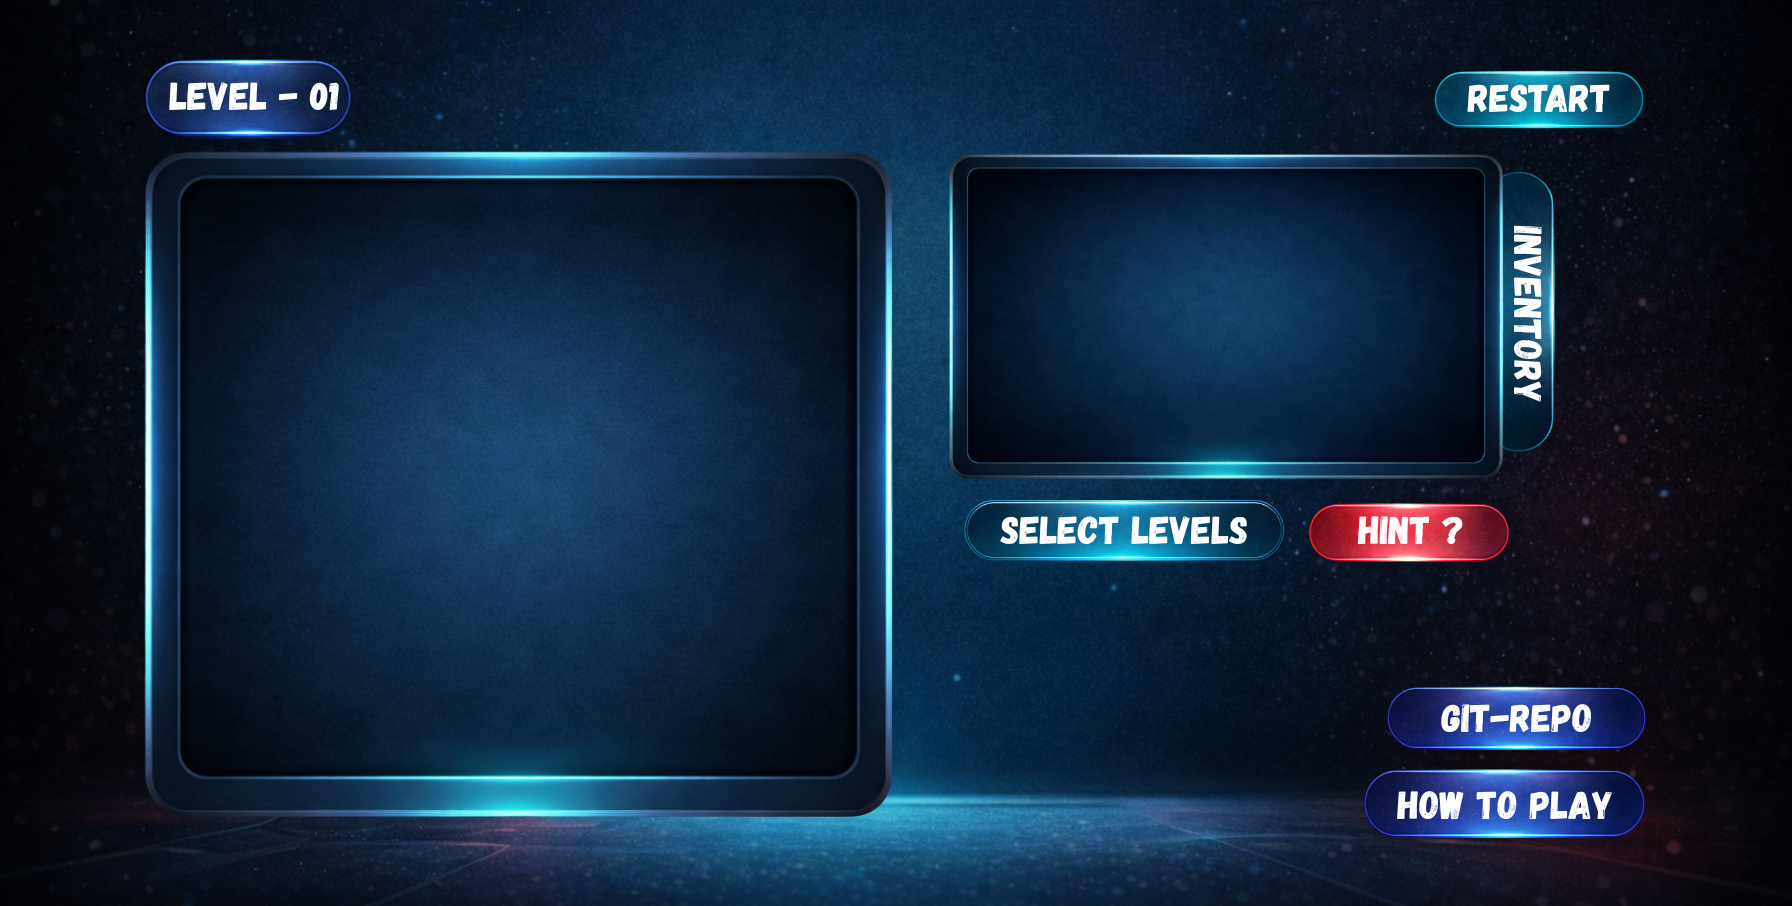
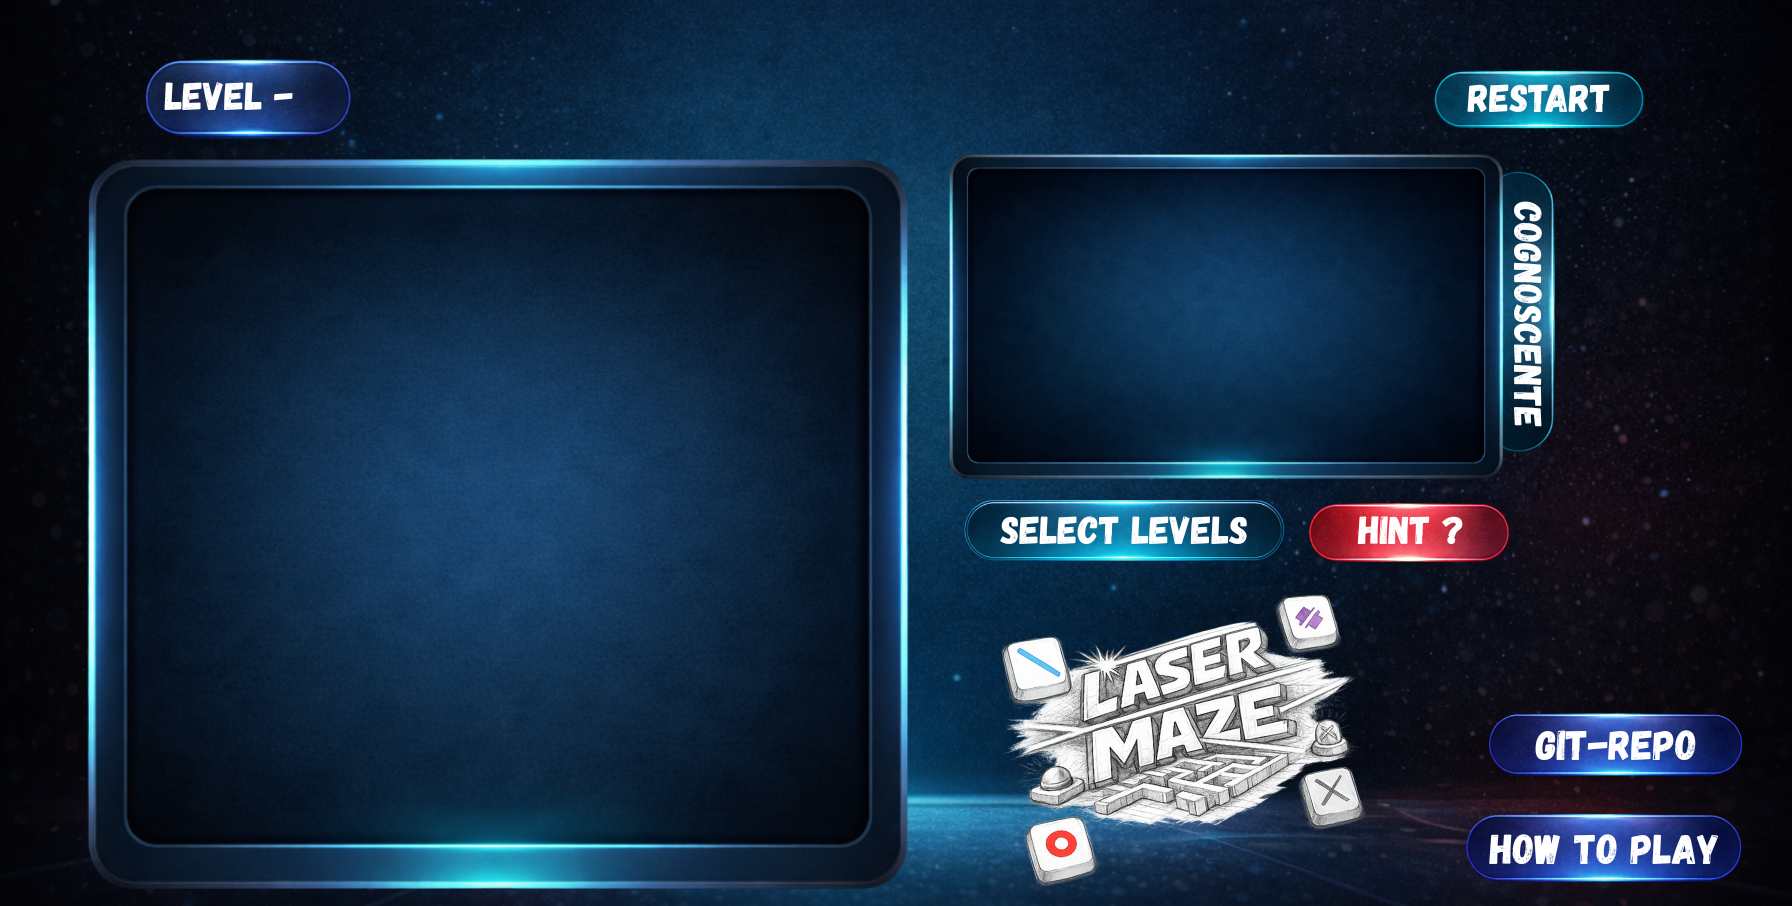
added a newUI png for the whole ui aligned them using invisible button using html and reduced the color of the game screen to make it look more real on the bg also removed pre written num  01 and replaced it with the correct game level counter.

diff --git a/style.css b/style.css
@@ -41,9 +41,49 @@ body {
     background-image: url('newUI.png');
     background-size: 100% 100%;
     background-position: center;
-    background-position: no-repeat;
+    background-repeat: no-repeat;
 }
 
+.click-zone {
+    position: absolute;
+    background: transparent;
+    border: none;
+    cursor: pointer;
+    z-index: 20;
+}
+
+.zone-level{
+    position: absolute;
+    top: 7.6%;
+    left: 15%;
+    width: 6%;
+    height: 5.5%;
+    display: flex;
+    align-items: center;
+    justify-content: center;
+    font-size: 2.2vw;
+    text-shadow: 0 0 15px var(--glow-blue);
+    pointer-events: none;
+    color: white;
+}
+
+.zone-restart{
+    top: 6.6%;
+    right: 4.5%;
+    width: 10.6%;
+    height: 5.5%;
+    border-radius: 30px;
+}
+
+.zone-game{
+    position: absolute;
+    top: 17.7%;
+    left: 4.5%;
+    width: 46.5%;
+    height: 79.6%;
+    padding: 1.5%;
+}
+/* 
 .slot-btn{
     position: absolute;
     background: transparent;
@@ -98,7 +138,7 @@ body {
     width: 46.5%;
     height: 79.6%;
     padding: 1.5%;
-}
+} */
 
 .game-container {
     width: 100%;
@@ -114,7 +154,73 @@ canvas {
     display: block;
 }
 
-.slot-inventory{
+.zone-inventory {
+    position: absolute;
+    top: 17.7%;
+    left: 53.7%;
+    width: 30.8%;
+    height: 36.5%;
+    display: flex;
+    justify-content: center;
+    align-items: center;
+    pointer-events: none;
+}
+
+#console-screen {
+    font-family: 'Courier New', Courier, monospace;
+    font-weight: bold;
+    font-size: 2vw;
+    color: #a6f0ff;
+    text-shadow: 0 0 10px #00d3ff, 0 0 20px #00d2ff;
+    text-align: center;
+    width: 80%;
+    text-transform: uppercase;
+    animation: pulseText 3s infinite alternate;
+}
+
+@keyframes pulseText {
+    0% {
+        opacity: 0.8;
+    }
+    100%{
+        opacity: 1;
+        text-shadow: 0 0 15px #00d2ff, 0 0 30px #00d2ff;
+    }
+}
+
+.zone-select{
+    top: 57%;
+    left: 53.7%;
+    width: 17.9%;
+    height: 6.6%;
+    border-radius: 20px;
+}
+
+.zone-hint {
+    top: 57%;
+    left: 73.9%;
+    width: 10.6%;
+    height: 6.6%;
+    border-radius: 20px;
+}
+
+.zone-git{
+    top: 79.3%;
+    right: 2.8%;
+    width: 14.5%;
+    height: 5.5%;
+    border-radius: 20px;
+}
+
+.zone-help {
+    bottom: 3.3%;
+    right: 2.8%;
+    width: 14.5%;
+    height: 5.5%;
+    border-radius: 20px;
+}
+
+/* .slot-inventory{
     position: absolute;
     top: 17.7%;
     left: 53.7%;
@@ -126,8 +232,8 @@ canvas {
     padding: 20px;
     text-align: center;
     color: rgba(255,255,255,0.4);
-}
-
+} */
+/* 
 .inv-text h3 {
     font-size: 2vw;
     color: var(--glow-blue);
@@ -180,8 +286,10 @@ canvas {
     width: 14.5%;
     height: 5.5%;
     font-size: 1.3vw;
+} */
+.hidden{
+    display: none !important;
 }
-
 .modal-overlay {
     position: fixed;
     top: 0;
@@ -265,10 +373,6 @@ canvas {
     margin-top: 10px;
 }
 
-.hidden{
-    display: none !important;
-}
-
 #game-message{
     position: absolute;
     top: 50%;
@@ -290,10 +394,6 @@ canvas {
     font-size: 1.2rem;
     margin-bottom: 20px;
     color: #ffd1d1;
-}
-
-.hidden {
-    display: none !important;
 }
 
 @media (max-width: 1024px){

diff --git a/game.js b/game.js
@@ -8,6 +8,19 @@ const messageBox = document.getElementById('game-message');
 const modal = document.getElementById('level-modal');
 const levelGrid = document.getElementById('level-grid');
 const btnClose = document.getElementById('btn-close-modal');
+const consoleScreen = document.getElementById('console-screen');
+
+//random messages
+const consoleMessage = [
+    "WELL DONE!",
+    "GOOD PLACEMENT",
+    "OPTIMIZING...",
+    "PATH ALIGNED",
+    "NICE MOVE",
+    "CALCULATING...",
+    "LASER STABLE",
+    "EXCELLENT!"
+];
 
 const BASE_TILE_SIZE = 70;
 let TILE_SIZE = 70;
@@ -17,10 +30,10 @@ let gridOffsetX = 0;
 let gridOffsetY = 0;
 
 const COLORS = {
-    bgGradientStart: '#1a5068',
-    bgGradientEnd: '#0f2b38',
-    gridBorder: '#000000',
-    gridFill: '#134B5F',
+    bgGradientStart: '#05101a',
+    bgGradientEnd: '#000000',
+    gridBorder: 'rgba(0, 210, 255, 0.1)',
+    gridFill: 'rgba(10, 20, 30, 0.8)',
     gridHighlight: 'rgba(255,255,255,0.2)',
     blockTop: '#ecf0f1',
     blockSide: '#bdc3c7',
@@ -305,7 +318,7 @@ function getVisualCoords(l){
         else if(l.dir === DIR.LEFT) x2 -= dist;
     }
     if(l.hitObj && l.hitObj.type === TYPE.WALL){
-        let dist = TILE_SIZE / 3;
+        let dist = TILE_SIZE * 0.38;
         if(l.dir === DIR.UP) y2 += dist;
         else if(l.dir === DIR.RIGHT) x2 -= dist;
         else if(l.dir === DIR.DOWN) y2 -= dist;
@@ -577,6 +590,11 @@ function roundRect(ctx, x, y, width, height, radius, fill) {
     if(fill) ctx.fill();
 }
 
+function updateConsole(){
+    const randomMsg = consoleMessage[Math.floor(Math.random() * consoleMessage.length)];
+    consoleScreen.innerText = randomMsg;
+}
+
 //Input
 function getGridPos(e){
     const rect = canvas.getBoundingClientRect();
@@ -621,7 +639,19 @@ canvas.addEventListener('mouseup', (e) => {
         dragObj = null;
         calculateLaser();
     }
+    if(isValidMove(dropX, dropY)){
+        if(dragObj.x !== dropX || dragObj.y !== dropY){
+            dragObj.x = dropY;
+            dragObj.y = dropY;
+
+            placeSound.currentTime = 0;
+            placeSound.play().catch(e => console.log("Audio play failed:", e))
+
+            updateConsole();
+        }
+    }
 });
+
 function isValidMove(x, y){
     if(y < 0 || y >= levelMap.length || x < 0 || x >= levelMap[0].length) return false;
     if(levelMap[y][x] !== 1) return false;

diff --git a/index.html b/index.html
@@ -7,36 +7,31 @@
     <title>LASER MAZE - All new Experience.</title>
     <link rel="stylesheet" href="style.css">
 </head>
-
 <body>
     <div class="ui-wrapper">
 
-        <div class="slot-level">
-            LEVEL - <span id="level-indicator">01</span>
+        <div class="zone-level">
+            <span id="level-indicator">01</span>
         </div>
 
-        <button class="slot-btn slot-restart" id="btn-restart">RESTART</button>
+        <button class="click-zone zone-restart" id="btn-restart" title="Restart Level"></button>
 
-        <div class="slot-game">
+        <div class="zone-game">
             <div class="game-container">
                 <canvas id="gameCanvas"></canvas>
                 <div id="game-message" class="hidden">LEVEL COMPLETE!</div>
             </div>
         </div>
 
-        <div class="slot-inventory">
-            <div class="inv-text">
-                <h3>INVENTORY</h3>
-                <p>Drag mirror from the bottom of the grid.</p>
-            </div>
+        <div class="zone-inventory">
+            <div id="console-screen">SYSTEM READY...</div>
         </div>
 
-        <div class="slot-inv-label">INVENTORY</div>
+        <button class="click-zone zone-select" id="btn-select-level" title="Select Level"></button>
 
-        <button class="slot-btn slot-select" id="btn-select-level">SELECT LEVEL</button>
-        <button class="slot-btn slot-hint" id="btn-hint">HINT ?</button>
-        <button class="slot-btn slot-git" onclick="window.open('https://github.com/baishnabikumari/Laser-Maze', '_blank')">GIT-REPO</button>
-        <button class="slot-btn slot-help" id="btn-how-to">HOW TO PLAY</button>
+        <button class="click-zone zone-hint" id="btn-hint" title="Get Hint"></button>
+        <button class="click-zone zone-git" onclick="window.open('https://github.com/baishnabikumari/Laser-Maze', '_blank')" title="Github"></button>
+        <button class="click-zone zone-help" id="btn-how-to" title="How to Play"></button>
     </div>
 
     <div id="level-modal" class="modal-overlay hidden">
@@ -57,5 +52,4 @@
     <!--js fetch-->
     <script src="game.js"></script>
 </body>
-
 </html>
